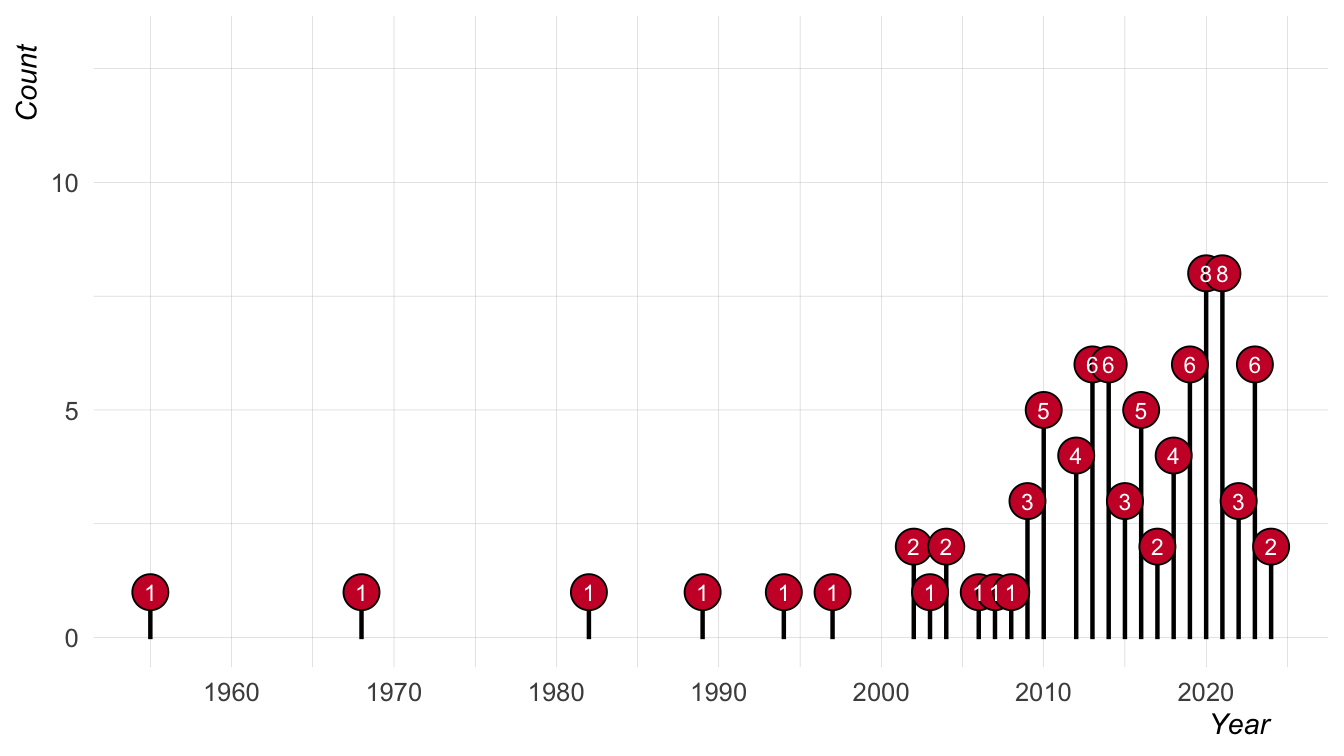
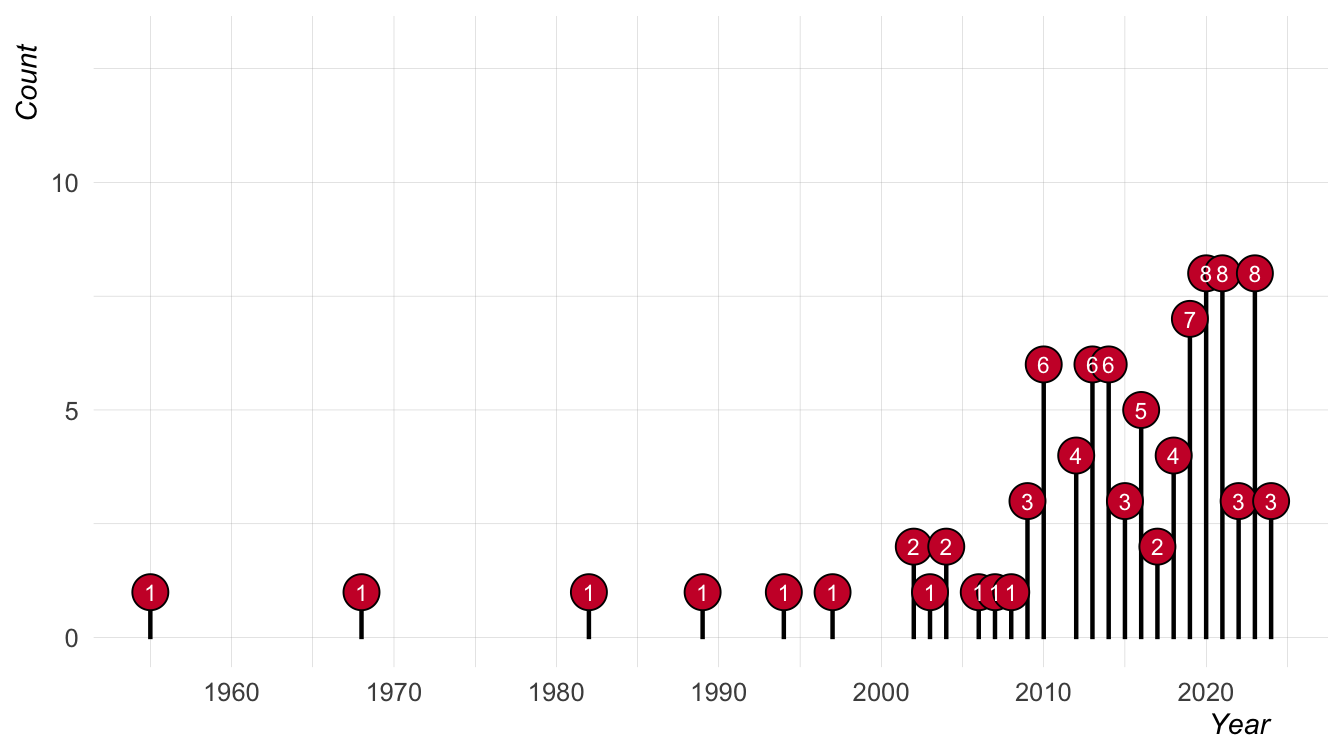
add more refs

Changed region(s): [[0.875, 0.3347, 0.9688, 0.5172], [0.75, 0.4563, 0.8125, 0.578], [0.9062, 0.6389, 0.9688, 0.7606]]

diff --git a/README.md b/README.md
@@ -1,6 +1,6 @@
 # Sound communities references
 Joseph V. Casillas
-2024-12-19
+2024-12-20
 
 ## Citation Types
 
@@ -440,6 +440,14 @@ Consequences of Bilingualism for Language Processing and Cognition.”
 
 </div>
 
+<div id="ref-kutlu2023towards" class="csl-entry">
+
+Kutlu, Ethan, and Rachel Hayes-Harb. 2023. “Towards a Just and Equitable
+Applied Psycholinguistics.” *Applied Psycholinguistics* 44 (3): 293–300.
+<https://doi.org/10.1017/S0142716423000280>.
+
+</div>
+
 <div id="ref-lambert1955" class="csl-entry">
 
 Lambert, Wallace E. 1955. “Measurement of the Linguistic Dominance of
@@ -546,6 +554,26 @@ Marsden, Emma, Kara Morgan-Short, Pavel Trofimovich, and Nick C Ellis.
 Transparency, Replication, and a Synthetic Ethic in the Language
 Sciences.” *Language Learning* 68 (2): 309–20.
 <https://doi.org/10.1111/lang.12284>.
+
+</div>
+
+<div id="ref-mcmanus2024replication" class="csl-entry">
+
+McManus, Kevin. 2024. “Replication Studies in Second Language
+Acquisition Research: Definitions, Issues, Resources, and Future
+Directions: Introduction to the Special Issue.” *Studies in Second
+Language Acquisition*, 1–21.
+<https://doi.org/10.1017/S0272263124000652>.
+
+</div>
+
+<div id="ref-mcmurray2023understanding" class="csl-entry">
+
+McMurray, Bob, Keith S Baxelbaum, Sarah Colby, and J Bruce Tomblin.
+2023. “Understanding Language Processing in Variable Populations on
+Their Own Terms: Towards a Functionalist Psycholinguistics of Individual
+Differences, Development, and Disorders.” *Applied Psycholinguistics* 44
+(4): 565–92. <https://doi.org/10.1017/S0142716423000255>.
 
 </div>
 
@@ -680,6 +708,15 @@ Challenges, and Limitations.” *Linguistics* 59 (5): 1227–49.
 
 </div>
 
+<div id="ref-roettger2019emergent" class="csl-entry">
+
+Roettger, Timo B, Bodo Winter, and Harald Baayen. 2019. “Emergent Data
+Analysis in Phonetic Sciences: Towards Pluralism and Reproducibility.”
+*Journal of Phonetics* 73: 1–7.
+<https://doi.org/10.1016/j.wocn.2018.12.001>.
+
+</div>
+
 <div id="ref-sankoff2002linguistic" class="csl-entry">
 
 Sankoff, Gillian. 2002. “Linguistic Outcomes of Language Contact.” In
@@ -695,6 +732,14 @@ Silva-Corvalán, Carmen, and Jeanine Treffers-Daller. 2016. *Language
 Dominance in Bilinguals: Issues of Measurement and Operationalization*.
 Cambridge, UK: Cambridge University Press.
 <https://doi.org/10.1017/CBO9781107375345>.
+
+</div>
+
+<div id="ref-simonet2010dark" class="csl-entry">
+
+Simonet, Miquel. 2010. “Dark and Clear Laterals in Catalan and Spanish:
+Interaction of Phonetic Categories in Early Bilinguals.” *Journal of
+Phonetics* 38 (4): 663–78. <https://doi.org/10.1016/j.wocn.2010.10.002>.
 
 </div>
 
